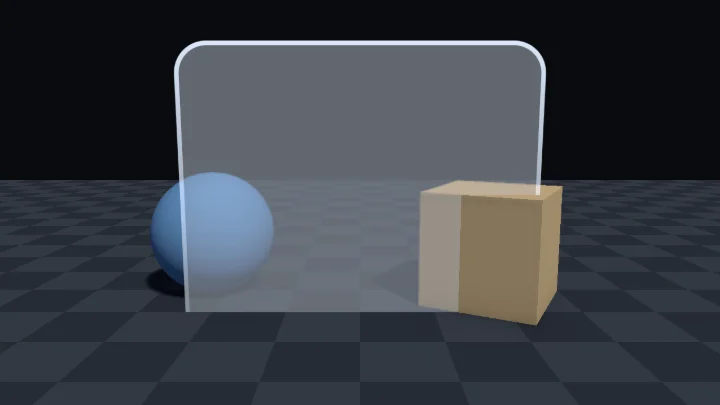
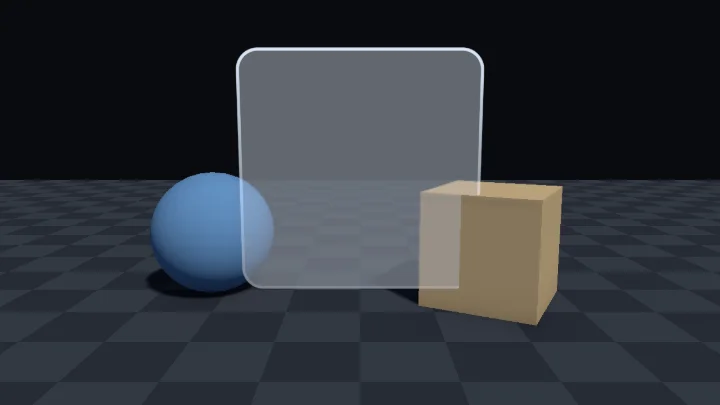
dispatch(ui-backdrop-blur-fix): 표본 수정: ui-backdrop-blur 리뷰 반영
Dispatch-Job: ui-backdrop-blur-fix
Dispatch-Profile: org
Dispatch-Model: claude-opus-5-5

Changed region(s): [[0.2444, 0.0889, 0.7639, 0.7704]]

diff --git a/web/src/specimens/ui-backdrop-blur/meta.ts b/web/src/specimens/ui-backdrop-blur/meta.ts
@@ -11,7 +11,7 @@ export const meta: SpecimenMeta = {
     'URP 의 Opaque Texture 를 화면 좌표(`screenUV`)로 읽어 패널 뒤 장면을 가져올 수 있다.',
     '황금각 나선으로 원판 위를 고르게 여러 번 읽어 흐린 배경을 만들고, 샘플 수가 비용과 화질을 함께 정한다는 것을 설명할 수 있다.',
     '둥근 사각형 거리장으로 패널 모양 알파와 테두리 빛을 만들 수 있다.',
-    '캔버스 렌더 모드(Overlay, Camera, World Space)에 따라 이 셰이더가 뒤를 비출 수 있는지 판단할 수 있다.',
+    '캔버스 렌더 모드(Overlay, Camera, World Space)마다 Opaque Texture 를 믿고 읽을 수 있는지 설명하고, 뒤를 비추는 패널에 Screen Space - Camera 캔버스를 고를 수 있다.',
   ],
   tags: ['씬 컬러(Opaque Texture)', '나선 샘플링 블러', '거리장(SDF)', 'UGUI', '캔버스 렌더 모드'],
   difficulty: 3,
@@ -38,51 +38,52 @@ export const meta: SpecimenMeta = {
     { key: '_RimColor', label: '테두리 빛 색', type: 'color', default: '#e0eeff' },
     { key: '_RimGlow', label: '테두리 빛 밝기', type: 'range', min: 0, max: 2, step: 0.05, default: 0.8, hint: '패널 가장자리 안쪽의 가는 빛. 위쪽이 아래쪽보다 밝다. 0 이면 테두리 없이 흐림만 남아 배경과 패널의 경계가 약해진다' },
     { key: '_CornerRadius', label: '모서리 둥글기', type: 'range', min: 0, max: 1, step: 0.01, default: 0.18, hint: '짧은 변 절반에 대한 비율. 0 이면 각진 사각형, 1 이면 짧은 쪽 양끝이 반원인 알약 모양이다' },
-    { key: '_Hide', label: '닫힘', type: 'range', min: 0, max: 1, step: 0.01, default: 0, hint: '0 이면 열린 패널, 1 이면 사라진 패널. 흐림 반경, 유리 색, 알파를 함께 줄인다. 패널을 열고 닫는 연출에서 C# 이나 애니메이션이 움직인다' },
+    { key: '_Hide', label: '닫힘', type: 'range', min: 0, max: 1, step: 0.01, default: 0, hint: '0 이면 열린 패널, 1 이면 사라진 패널. 흐림 반경, 유리 색, 알파를 함께 줄인다. Unity 에서는 `UiBackdropPanel` 의 Open, Close 가 움직인다' },
   ],
   presets: [
     { id: 'dialog', name: '글 읽는 대화창', look: '짙은 남색 유리가 배경을 크게 흐리고 어둡게 눌러 흰 글씨가 잘 읽힌다', values: { _BlurRadius: 0.06, _Quality: '2', _TintColor: '#141b2b', _TintAmount: 0.55, _RimGlow: 0.5, _CornerRadius: 0.12 } },
     { id: 'frosted', name: '서리 유리', look: '흰빛이 많이 섞인 밝은 유리. 뒤의 색만 뭉개져 비친다. 검은 글씨용', values: { _BlurRadius: 0.08, _Quality: '2', _TintColor: '#f2f6fb', _TintAmount: 0.45, _RimGlow: 1.2, _RimColor: '#ffffff' } },
-    { id: 'mobile-hud', name: '모바일 HUD', look: '반경을 줄이고 Low(8번)로 읽는 가벼운 패널. 알갱이가 조금 보이지만 비용이 4분의 1이다', values: { _BlurRadius: 0.025, _Quality: '0', _TintAmount: 0.3, _CornerRadius: 0.3 } },
+    { id: 'mobile-hud', name: '모바일 HUD', look: '반경을 줄이고 Low(8번)로 읽는 가벼운 패널. 알갱이가 조금 보이지만 읽는 횟수가 기본값 Medium 의 절반, High 의 4분의 1이다', values: { _BlurRadius: 0.025, _Quality: '0', _TintAmount: 0.3, _CornerRadius: 0.3 } },
     { id: 'pill', name: '알약 버튼', look: '모서리 둥글기 1. 가로로 긴 Image 에서는 양끝이 반원인 알약, 이 무대 같은 정사각형 Image 에서는 원이 된다. 테두리가 밝다', values: { _CornerRadius: 1, _RimGlow: 1.4, _BlurRadius: 0.05 } },
   ],
   events: [
     {
       id: 'reopen',
       label: '닫았다 열기',
-      // 빨리 닫고 잠깐 쉰 뒤 천천히 연다. 흐림 반경이 0 에서 커지며 뒤가 서서히 뭉개진다
+      // UiBackdropPanel.Reopen() 과 같다: 0.25초에 닫고 0.35초 쉰 뒤 0.8초에 연다 (inOutSine).
+      // 흐림 반경이 0 에서 커지며 뒤가 서서히 뭉개진다
       tracks: [{ key: '_Hide', frames: [[0, 0], [0.25, 1], [0.6, 1], [1.4, 0]], ease: 'inOutSine' }],
     },
   ],
   demo: { fire: [{ event: 'reopen', every: 4.5 }] },
   steps: [
-    { n: 1, label: '패널 모양', body: '둥근 사각형 거리장의 안쪽을 흰색으로 본다. 이 값이 패널의 알파다. 모서리 둥글기를 바꾸면 모서리만 바뀌고, 가장자리는 `fwidth` 로 1픽셀만 부드럽다. Image 의 가로세로 비를 uv 의 화면 미분으로 재서 가로로 긴 패널에서도 모서리가 원호를 유지한다. 이 무대에서는 패널 아래쪽이 바닥에 가려 아래 모서리가 보이지 않는다.' },
-    { n: 2, label: '흐리기 전 씬 색상', body: '패널 자리의 화면 좌표로 씬 색상을 한 번 읽은 모습이다. 상자와 공이 패널이 없는 것처럼 그대로 비친다. 패널은 자기 뒤를 직접 볼 수 없고, 카메라가 불투명 물체를 다 그린 직후 복사해 둔 화면(Opaque Texture)을 읽는다. 바깥 모서리는 패널 모양 밖이라 검다.' },
-    { n: 3, label: '흐린 씬 색상', body: '같은 자리 주변을 황금각 나선으로 여러 번 읽어 평균한 모습이다. 상자와 공의 윤곽이 뭉개진다. 샘플 수를 Low 로 내리면 흐림 속에 고운 알갱이가 생긴다. 나선을 픽셀마다 다르게 돌려 겹상을 알갱이로 바꾼 것이다. 흐림 반경을 키우면 더 뭉개지고 알갱이도 거칠어진다.' },
-    { n: 4, label: '테두리 빛', body: '가장자리 안쪽의 가는 띠만 본다. 패널 모양에서 거리장을 띠 폭만큼 안으로 옮긴 모양을 빼서 얻는다. 위쪽 변이 가장 밝고 옆 변은 아래로 내려갈수록 회색으로 어두워진다. 빛이 위에서 비치는 유리처럼 보이게 한 것이다. 이 빛을 3단계의 흐린 배경에 유리 색을 섞은 위에 더하면 최종 화면이 된다.' },
+    { n: 1, label: '패널 모양', body: '둥근 사각형 거리장의 안쪽을 흰색으로 본다. 이 값이 패널의 알파다. 모서리 둥글기를 바꾸면 모서리만 바뀌고, 가장자리는 `fwidth` 로 1픽셀만 부드럽다. Image 의 가로세로 비를 uv 의 화면 미분으로 재서 가로로 긴 패널에서도 모서리가 원호를 유지한다. 패널은 바닥에서 떠 있어 왼쪽 아래 모서리까지 보인다. 오른쪽 아래 모서리는 패널보다 카메라에 가까운 상자 앞면에 가려진다. Camera, World Space 캔버스의 UI 도 이처럼 깊이를 비교해 더 가까운 3D 물체에 가려진다.' },
+    { n: 2, label: '흐리기 전 씬 색상', body: '패널 자리의 화면 좌표로 씬 색상을 한 번 읽은 모습이다. 공과 바닥, 패널 뒤로 들어간 상자 윗부분이 패널이 없는 것처럼 그대로 비쳐 이어진다. 패널은 자기 뒤를 직접 볼 수 없고, 카메라가 불투명 물체를 다 그린 직후 복사해 둔 화면(Opaque Texture)을 읽는다. 바깥 모서리는 패널 모양 밖이라 검다.' },
+    { n: 3, label: '흐린 씬 색상', body: '같은 자리 주변을 황금각 나선으로 여러 번 읽어 평균한 모습이다. 공과 상자의 윤곽, 바닥 격자가 뭉개진다. 패널 앞에 있는 상자 앞면의 가장자리 둘레에도 상자 색이 번진다. Opaque Texture 에는 패널 앞의 물체도 들어 있어 흐림이 그 색까지 끌어오기 때문이다. 샘플 수를 Low 로 내리면 흐림 속에 고운 알갱이가 생긴다. 나선을 픽셀마다 다르게 돌려 겹상을 알갱이로 바꾼 것이다. 흐림 반경을 키우면 더 뭉개지고 알갱이도 거칠어진다.' },
+    { n: 4, label: '테두리 빛', body: '가장자리 안쪽의 가는 띠만 본다. 패널 모양에서 거리장을 띠 폭만큼 안으로 옮긴 모양을 빼서 얻는다. 위쪽 변이 가장 밝고, 옆 변은 아래로 내려갈수록 어두워져 아래쪽 변은 어두운 회색이다. 빛이 위에서 비치는 유리처럼 보이게 한 것이다. 이 빛을 3단계의 흐린 배경에 유리 색을 섞은 위에 더하면 최종 화면이 된다.' },
   ],
   offNote: '흐림 반경은 그대로 두고 상하좌우 네 곳만 읽어 평균했다. 흐려지는 대신 상자와 공이 네 겹으로 어긋나 겹쳐 보인다. 샘플을 아끼려고 반경만 키우거나 샘플 수를 크게 줄였을 때 생기는 모습이다. 반경을 키우면 샘플 수도 함께 늘리고, 샘플을 원판에 고르게 퍼뜨린 뒤 픽셀마다 돌려 남는 겹상을 알갱이로 바꾼다.',
   mistakes: [
-    { title: '패널이 뒤를 비추지 않고 회색이나 검은 판으로 보인다', body: '셋 중 하나다. (1) URP Asset 의 Opaque Texture 가 꺼져 있다. 품질 단계마다 URP Asset 이 다르면 모두 켜고, 카메라의 Opaque Texture 가 Off 면 Use Pipeline Settings 로 바꾼다. (2) 캔버스가 Screen Space - Overlay 다. Overlay 는 카메라가 다 그린 뒤 따로 그려져 Opaque Texture 를 읽을 수 없다. Screen Space - Camera 로 바꾸고 Render Camera 에 장면 카메라를 넣는다. (3) 2D Renderer 를 쓴다. Opaque Texture 가 없어 Camera Sorting Layer Texture 를 읽게 셰이더를 고쳐야 한다.' },
+    { title: '패널이 뒤를 비추지 않고 회색이나 검은 판으로 보이거나, 비친 색이 주변 화면과 다르다', body: '넷 중 하나다. (1) URP Asset 의 Opaque Texture 가 꺼져 있다. 품질 단계마다 URP Asset 이 다르면 모두 켜고, 카메라의 Opaque Texture 가 Off 면 Use Pipeline Settings 로 바꾼다. (2) 캔버스가 Screen Space - Overlay 다. Overlay 캔버스에서 Opaque Texture 가 읽히는지는 보장되지 않고 확인하지 않았다. 읽혀도 투명 물체와 후처리가 빠진 복사본이라 색이 주변과 다르다. (3) Canvas 의 Render Camera 가 UI 만 그리는 Overlay 카메라(카메라 스택)다. Overlay 카메라는 Opaque Texture 를 만들지 않는다. (2), (3) 은 Screen Space - Camera 로 바꾸고 Render Camera 에 장면을 그리는 Base 카메라를 넣는다. (4) 2D Renderer 를 쓴다. Opaque Texture 가 없어 Camera Sorting Layer Texture 를 읽게 셰이더를 고쳐야 한다.' },
     { title: '뒤에 있는 다른 UI 나 파티클이 흐림에 안 보이고 그 자리의 3D 장면이 비친다', body: 'Opaque Texture 는 불투명 물체를 그린 직후의 복사본이라 투명 물체, 파티클, 다른 UI 가 들어 있지 않다. 패널 뒤 UI 가 흐려 보여야 하면 그 UI 를 별도 카메라로 렌더 텍스처에 찍어 읽거나, 패널 뒤에 반투명 판을 깔아 가린다. 같은 이유로 흐린 패널 두 장을 겹치면 뒤 패널은 앞 패널의 흐림에 나오지 않는다.' },
-    { title: '흐림 속에 물체가 몇 겹으로 어긋나 비치거나 알갱이가 거칠다', body: '반경에 비해 샘플이 적다. 반경을 키울수록 같은 샘플 수가 넓은 원에 듬성듬성 흩어진다. 샘플 수를 올리거나 반경을 줄인다. URP Asset 의 Opaque Downsampling 을 4x Box 로 두면 복사본이 미리 뭉개져 같은 샘플 수로도 부드럽고 읽는 비용도 준다.' },
-    { title: '패널을 열면 프레임이 떨어진다 (특히 모바일)', body: '비용은 패널이 덮는 픽셀 수 × 샘플 수다. 화면 전체를 덮는 High(32번) 패널은 매 프레임 모든 픽셀이 32번 텍스처를 읽는다. 모바일은 Low 와 작은 반경, Opaque Downsampling 4x Box 를 쓰고, 큰 배경 패널 대신 필요한 영역만 흐린다. 메뉴가 열린 동안 장면이 멈춰 있다면 한 번 찍어 둔 흐린 이미지를 RawImage 로 보여 주는 편이 훨씬 싸다.' },
-    { title: '패널 하나를 닫았는데 다른 패널도 함께 사라진다', body: '`Image.material` 은 복사본을 만들지 않고 공유 머티리얼을 돌려준다. `_Hide` 를 패널마다 움직이려면 `new Material(image.material)` 로 복사본을 만들어 `image.material` 에 넣고 `OnDestroy` 에서 지운다. 페이드만 하면 되면 머티리얼은 그대로 두고 CanvasGroup 의 alpha 를 움직인다 (정점 색으로 들어와 셰이더가 곱한다).' },
+    { title: '흐림 속에 물체가 몇 겹으로 어긋나 비치거나 알갱이가 거칠다', body: '반경에 비해 샘플이 적다. 반경을 키울수록 같은 샘플 수가 넓은 원에 듬성듬성 흩어진다. 샘플 수를 올리거나 반경을 줄인다. URP Asset 의 Opaque Downsampling 을 4x Box 로 두면 복사본이 미리 뭉개져 같은 샘플 수로도 부드럽고 읽는 비용도 준다. 알갱이 무늬는 화면 픽셀에 고정되어 있어 패널을 움직이면 무늬는 제자리에 남고 패널만 그 위를 지나간다. 움직이는 패널에서 눈에 띄면 샘플 수를 올린다.' },
+    { title: '패널을 열면 프레임이 떨어진다 (특히 모바일)', body: '비용은 패널이 덮는 픽셀 수 × 샘플 수다. 화면 전체를 덮는 High(32번) 패널은 매 프레임 모든 픽셀이 32번 텍스처를 읽는다. 모바일은 Low 와 작은 반경, Opaque Downsampling 4x Box 를 쓰고, 큰 배경 패널 대신 필요한 영역만 흐린다. 닫힌 패널도 알파만 0 일 뿐 켜져 있으면 같은 비용을 쓴다 (`UiBackdropPanel` 은 다 닫히면 Image 를 끈다). 메뉴가 열린 동안 장면이 멈춰 있다면 한 번 찍어 둔 흐린 이미지를 RawImage 로 보여 주는 편이 훨씬 싸다.' },
+    { title: '패널 하나를 닫았는데 다른 패널도 함께 사라진다', body: '`Image.material` 은 복사본을 만들지 않고 공유 머티리얼을 돌려준다. 머티리얼 에셋의 `_Hide` 를 직접 바꾸면 같은 머티리얼을 쓰는 패널이 모두 닫힌다. `UiBackdropPanel` 은 처음 쓸 때 Image 마다 복사본을 만들어 `image.material` 에 넣고 `OnDestroy` 에서 지운다. 꺼진 채 시작한 메뉴에 `Awake` 전에 `Close()` 를 불러도 된다. Mask 안의 패널은 Unity 가 따로 쓰는 스텐실용 복사본(`materialForRendering`)에도 같은 값을 넣는다. 페이드만 하면 되면 머티리얼은 그대로 두고 CanvasGroup 의 alpha 를 움직인다 (정점 색으로 들어와 셰이더가 곱한다).' },
   ],
   unity: {
     setup: [
-      '`UiBackdropBlur.shader`, `core.hlsl` 을 `Assets/Shaders/ui-backdrop-blur/` 에 둔다.',
-      '사용 중인 URP Asset(품질 단계마다 다르면 모두)의 Rendering 에서 Opaque Texture 를 켠다. 모바일은 Opaque Downsampling 을 4x Box 로 둔다. 카메라의 Rendering > Opaque Texture 가 Off 면 Use Pipeline Settings 로 바꾼다.',
-      'Canvas 의 Render Mode 를 Screen Space - Camera 로 바꾸고 Render Camera 에 장면을 그리는 카메라를 넣는다 (또는 World Space). Screen Space - Overlay 는 Opaque Texture 를 읽을 수 없다. Plane Distance 는 장면의 3D 물체보다 카메라에 가깝게 둔다. 더 가까운 3D 물체는 패널을 가린다.',
-      '셰이더를 우클릭해 Create > Material 로 머티리얼을 만든다.',
-      'Canvas 아래 Create > UI > Image 로 패널을 만들고 Image 의 Material 칸에 머티리얼을 넣는다. 패널 모양은 셰이더가 계산하므로 Source Image 는 비우고 Image Type 은 Simple 로 둔다. Image 의 Color 알파나 CanvasGroup 의 alpha 로 패널 전체를 옅게 할 수 있다.',
-      '글(TextMeshPro 등)은 패널의 자식으로 두어 패널보다 나중에 그려지게 한다. 글이 잘 읽히지 않으면 유리 색 비율을 0.5 안팎으로 올리고 유리 색을 글과 반대 밝기로 둔다.',
-      '모바일 빌드는 머티리얼의 샘플 수를 Low 로, 흐림 반경을 0.03 아래로 둔다.',
+      '`UiBackdropBlur.shader`, `core.hlsl`, `UiBackdropPanel.cs` 를 `Assets/Shaders/ui-backdrop-blur/` 에 둔다.',
+      '사용 중인 URP Asset(품질 단계마다 다르면 모두)의 Rendering 에서 Opaque Texture 를 켠다. 카메라의 Rendering > Opaque Texture 가 Off 면 Use Pipeline Settings 로 바꾼다.',
+      'Canvas 의 Render Mode 를 Screen Space - Camera 로 바꾸고 Render Camera 에 장면을 그리는 Base 카메라를 넣는다 (World Space 도 된다). Screen Space - Overlay 에서 Opaque Texture 가 읽히는지는 보장되지 않고 확인하지 않았으며, UI 만 그리는 Overlay 카메라(카메라 스택)는 Opaque Texture 를 만들지 않는다. Plane Distance 는 장면의 3D 물체보다 카메라에 가깝게 둔다. 더 가까운 3D 물체는 패널을 가린다.',
+      '셰이더를 우클릭해 Create > Material 로 머티리얼을 만든다. Hierarchy 에서 GameObject > UI (Canvas) > Image 로 Canvas 아래에 패널을 만들고 Image 의 Material 칸에 머티리얼을 넣는다. 패널 모양은 셰이더가 계산하므로 Source Image 는 비우고 Image Type 은 Simple 로 둔다.',
+      '글(TextMeshPro 등)과 버튼은 패널의 자식 오브젝트 하나에 모아 패널보다 나중에 그려지게 하고, 그 자식에 CanvasGroup 을 붙인다. 글이 잘 읽히지 않으면 유리 색 비율을 0.5 안팎으로 올리고 유리 색을 글과 반대 밝기로 둔다.',
+      '패널에 `UiBackdropPanel` 을 붙이고 Content 칸에 위 자식의 CanvasGroup 을 넣는다. 메뉴를 열 때 `Open()`, 닫을 때 `Close()` 를 부른다. 탭을 바꿀 때처럼 빨리 닫고 잠깐 쉰 뒤 다시 열려면 `Reopen()` 을 부른다. 글도 함께 사라지고, 다 닫히면 Image 를 꺼 흐림 비용과 클릭 막힘이 없어진다. 패널마다 머티리얼 복사본을 쓰므로 머티리얼 에셋의 닫힘 값은 0 으로 둔다.',
+      '모바일 빌드는 머티리얼의 샘플 수를 Low 로, 흐림 반경을 0.03 아래로 두고, URP Asset 의 Opaque Downsampling 을 4x Box 로 둔다.',
     ],
     verify: 'Game 뷰에서 패널 뒤 3D 물체의 윤곽이 뭉개져 비치고, 흐림 반경을 0 으로 내리면 뒤가 또렷해지며, 카메라나 물체가 움직이면 흐린 모습이 같이 따라간다.',
     pitfalls: [
-      'Screen Space - Overlay 캔버스는 카메라가 장면을 다 그린 뒤에 따로 그려져 Opaque Texture 를 읽을 수 없다. 패널이 회색이나 검은 판, 또는 엉뚱한 화면으로 보인다. Screen Space - Camera 나 World Space 캔버스를 쓴다.',
-      'Opaque Texture 는 불투명 물체만 담는다. 다른 UI, 투명 물체, 파티클, 하늘보다 늦게 그려지는 것은 흐림에 들어가지 않고 그 자리의 불투명 장면이 비친다. 흐린 패널끼리 겹쳐도 뒤 패널은 보이지 않는다.',
+      'Screen Space - Camera 캔버스를 권한다. Screen Space - Overlay 캔버스에서 Opaque Texture 가 읽히는지는 보장되지 않고 확인하지 않았다. URP 17.3 은 Overlay UI 도 카메라 렌더 그래프 안에서 그려 읽힐 수 있지만, 읽혀도 투명 물체와 후처리가 빠진 복사본이라 패널 색이 주변 화면과 다르다. UI 만 그리는 Overlay 카메라(카메라 스택)는 Opaque Texture 를 만들지 않아 그 카메라를 Render Camera 로 쓰면 뒤가 비치지 않는다.',
+      'Opaque Texture 는 불투명 물체만 담는다. 다른 UI, 투명 물체, 파티클, 하늘보다 늦게 그려지는 것은 흐림에 들어가지 않고 그 자리의 불투명 장면이 비친다. 흐린 패널끼리 겹쳐도 뒤 패널은 보이지 않는다. 반대로 패널보다 카메라에 가까운 불투명 물체는 들어 있어, 그 물체가 패널을 가린 경계 둘레에 물체 색이 흐리게 번진다.',
       '2D Renderer 는 Opaque Texture 를 만들지 않는다. Renderer 2D Data 의 Camera Sorting Layer Texture 에서 Foremost Sorting Layer 를 정하고, 래퍼의 `sgSceneColor` 를 `_CameraSortingLayerTexture` 를 읽게 바꿔야 한다. 이 패스는 LightMode 태그가 없어 2D Renderer 에서도 SRPDefaultUnlit 으로 그려지지만, 바꾸지 않으면 뒤가 비치지 않는다.',
       '샘플 수가 곧 비용이다. 패널이 덮는 픽셀마다 Low 8번, Medium 16번, High 32번 텍스처를 읽는다. 모바일은 Low 와 작은 반경을 쓰고 Opaque Downsampling(4x Box)으로 읽는 양을 줄인다. 전체 화면을 덮는 배경 패널은 특히 비싸다.',
       'XR 에서는 권하지 않는다. 눈마다 다시 읽어 비용이 두 배이고, World Space UI 에서 화면 공간 흐림이 머리 움직임에 따라 어떻게 보여야 하는지 쓰임이 분명하지 않다. 래퍼의 스테레오 매크로는 남겨 두었지만 실기기에서 확인하지 않았다.',
@@ -90,9 +91,9 @@ export const meta: SpecimenMeta = {
     ],
   },
   prompt: {
-    goal: 'Screen Space - Camera 캔버스의 UGUI 패널이 뒤의 3D 장면을 흐리게 비추는 반투명 유리 배경이 되게 한다. 흐림 반경, 샘플 수, 유리 색, 테두리 빛, 모서리 둥글기를 머티리얼에서 조절한다.',
+    goal: 'Screen Space - Camera 캔버스의 UGUI 패널이 뒤의 3D 장면을 흐리게 비추는 반투명 유리 배경이 되게 한다. 흐림 반경, 샘플 수, 유리 색, 테두리 빛, 모서리 둥글기를 머티리얼에서 조절하고, 패널을 C# 으로 열고 닫는다.',
     adaptIdeas: [
-      '메뉴 패널을 열 때 0.3초 동안 흐림이 0 에서 서서히 커지고 닫을 때 줄어들게 하고 싶다. 패널마다 머티리얼 복사본을 만들고 `_Hide` 를 C# 코루틴에서 실제 시간(`Time.unscaledDeltaTime`)으로 움직여 일시정지 중에도 동작하게 해 줘.',
+      '메뉴 패널이 열릴 때 흐림이 커지는 동안 패널 크기도 0.96 에서 1 로 살짝 커지고, 글은 패널이 반쯤 열린 뒤에 나타나게 하고 싶다. `UiBackdropPanel` 의 열기 시간에 맞춰 Rect Transform 의 스케일과 글 CanvasGroup 의 alpha 를 함께 움직이고, 일시정지 중에도 동작하게 실제 시간으로 재 줘.',
       '2D Renderer 프로젝트에서 쓰고 싶다. Opaque Texture 대신 Camera Sorting Layer Texture 를 읽게 바꾸고 Renderer 2D Data 에서 켤 설정도 알려 줘.',
       'Source Image 의 알파를 패널 모양으로 써서 9-slice 프레임이나 말풍선 모양의 유리를 만들고 싶다.',
       '흐린 유리 위에 아주 옅은 노이즈 알갱이와 위에서 아래로 옅어지는 반사광을 얹어 더 유리처럼 보이게 하고 싶다.',

diff --git a/Assets/Shaders/ui-backdrop-blur/UiBackdropPanel.cs b/Assets/Shaders/ui-backdrop-blur/UiBackdropPanel.cs
@@ -1,0 +1,253 @@
+// UGUI Image 의 배경 블러 유리 머티리얼에 닫힘 값(_Hide)을 넘겨 패널을 열고 닫는다. Open, Close, Reopen 을 부른다.
+using System.Collections;
+using UnityEngine;
+using UnityEngine.UI;
+
+namespace ShaderGallery.Samples
+{
+    [RequireComponent(typeof(Image))]
+    public class UiBackdropPanel : MonoBehaviour
+    {
+        static readonly int Hide = Shader.PropertyToID("_Hide");
+
+        [Tooltip("켜면 열린 채, 끄면 닫힌 채 시작한다")]
+        [SerializeField] bool startOpen = true;
+        [Tooltip("다 열린 패널을 닫는 시간(초). 갤러리의 '닫았다 열기' 이벤트와 같은 0.25초")]
+        [SerializeField] float closeSeconds = 0.25f;
+        [Tooltip("다 닫힌 패널을 여는 시간(초). 흐림 반경이 0 에서 서서히 커진다. 갤러리 이벤트와 같은 0.8초")]
+        [SerializeField] float openSeconds = 0.8f;
+        [Tooltip("Reopen 에서 닫힌 채 쉬는 시간(초). 갤러리 이벤트와 같은 0.35초")]
+        [SerializeField] float reopenPause = 0.35f;
+        [Tooltip("일시정지(Time.timeScale = 0) 중에도 열고 닫히게 하려면 켠다. 메뉴는 대개 일시정지 중에 열린다")]
+        [SerializeField] bool unscaledTime = true;
+        [Tooltip("패널의 글과 버튼을 모은 자식 오브젝트의 CanvasGroup (선택). 넣으면 패널과 함께 사라지고, 반 넘게 닫히면 클릭을 받지 않는다.\n" +
+                 "패널 오브젝트 자체의 CanvasGroup 을 넣지 않는다 (유리의 알파가 두 번 곱해진다)")]
+        [SerializeField] CanvasGroup content;
+
+        Image image;
+        Material original;
+        Material material;
+        // 화면에 보이는 닫힘 값과 목표 값 (0 = 열림, 1 = 닫힘)
+        float shown;
+        float target;
+        // Open, Close, Reopen 이 한 번이라도 값을 넣었는지. Awake 가 시작 값으로 덮어쓰지 않게 한다
+        bool hasValue;
+        // 다 닫혀서 이 스크립트가 Image 를 껐는지. 지워질 때 다시 켜 둔다
+        bool imageHiddenByUs;
+        bool warnedNoHide;
+
+        /// <summary>열려 있거나 열리는 중이면 true. Reopen 중에는 다시 열릴 것이므로 true 다.</summary>
+        public bool IsOpen => target < 0.5f;
+
+        // 일시정지 중에도 UI 가 움직이게 하려면 실제 시간을 쓴다
+        float Now => unscaledTime ? Time.unscaledTime : Time.time;
+
+        void Awake()
+        {
+            if (!EnsureMaterial())
+            {
+                return;
+            }
+            // Awake 전에 Open, Close 가 이미 값을 넣었으면 (꺼진 채 시작한 메뉴) 그 값을 지킨다.
+            if (!hasValue)
+            {
+                shown = target = startOpen ? 0f : 1f;
+                hasValue = true;
+                Apply(shown);
+            }
+        }
+
+        // 복사본 머티리얼을 처음 쓸 때 만든다. Awake 는 오브젝트가 처음 켜질 때에야 불리므로,
+        // 꺼진 오브젝트에 Awake 전에 Open, Close 를 불러도 동작하려면 Awake 에서 만들면 안 된다.
+        bool EnsureMaterial()
+        {
+            if (material != null)
+            {
+                return true;
+            }
+            if (image == null)
+            {
+                image = GetComponent<Image>();
+            }
+            original = image.material;
+            if (original == null || !original.HasProperty(Hide))
+            {
+                // Material 칸이 비어 있으면 UI 기본 머티리얼이 들어와 _Hide 가 없다. 값을 넣어도 아무 일이 없으므로 멈춘다.
+                if (!warnedNoHide)
+                {
+                    Debug.LogWarning($"{name}: Image 의 Material 이 _Hide 속성을 가진 머티리얼이 아니다. ShaderGallery/UiBackdropBlur 머티리얼을 넣는다.", this);
+                    warnedNoHide = true;
+                }
+                enabled = false;
+                return false;
+            }
+            // Image.material 은 Renderer.material 과 달리 복사본을 만들지 않고 공유 에셋을 그대로 돌려준다.
+            // 그대로 고치면 같은 머티리얼을 쓰는 모든 패널이 함께 닫히므로 직접 복사본을 만들어 이 Image 에만 넣는다.
+            material = new Material(original) { name = original.name + " (Instance)" };
+            image.material = material;
+            return true;
+        }
+
+        /// <summary>패널을 연다. 흐림 반경, 유리 색, 알파가 0 에서 서서히 커진다. 꺼져 있을 때 부르면 바로 열린 상태가 된다.</summary>
+        public void Open()
+        {
+            MoveTo(0f, openSeconds);
+        }
+
+        /// <summary>패널을 닫는다. 다 닫히면 Image 를 꺼서 보이지 않는 패널이 흐림 비용을 쓰거나 클릭을 막지 않게 한다.</summary>
+        public void Close()
+        {
+            MoveTo(1f, closeSeconds);
+        }
+
+        /// <summary>빨리 닫고 잠깐 쉰 뒤 천천히 연다. 갤러리의 '닫았다 열기' 이벤트와 같다 (탭 전환, 내용 바꾸기 연출).</summary>
+        public void Reopen()
+        {
+            if (!EnsureMaterial())
+            {
+                return;
+            }
+            hasValue = true;
+            target = 0f;
+            StopAllCoroutines();
+            // 꺼진 오브젝트에서는 StartCoroutine 이 오류를 내므로 끝 상태(열림)로 바로 둔다.
+            if (!isActiveAndEnabled)
+            {
+                shown = 0f;
+                Apply(shown);
+                return;
+            }
+            StartCoroutine(ReopenRoutine());
+        }
+
+        void MoveTo(float to, float fullSeconds)
+        {
+            if (!EnsureMaterial())
+            {
+                return;
+            }
+            hasValue = true;
+            target = to;
+            StopAllCoroutines();
+            // 반쯤 닫힌 중에 다시 열면 남은 거리만큼만 시간을 쓴다
+            float seconds = Mathf.Max(fullSeconds, 0f) * Mathf.Abs(to - shown);
+            if (!isActiveAndEnabled || seconds <= 0f)
+            {
+                shown = to;
+                Apply(shown);
+                return;
+            }
+            StartCoroutine(Move(shown, to, seconds));
+        }
+
+        IEnumerator ReopenRoutine()
+        {
+            yield return StartCoroutine(Move(shown, 1f, Mathf.Max(closeSeconds, 0f) * (1f - shown)));
+            float pauseStart = Now;
+            while (Now - pauseStart < reopenPause)
+            {
+                yield return null;
+            }
+            yield return StartCoroutine(Move(1f, 0f, Mathf.Max(openSeconds, 0f)));
+        }
+
+        IEnumerator Move(float from, float to, float seconds)
+        {
+            float start = Now;
+            for (float t = 0f; t < 1f; t = seconds > 0f ? (Now - start) / seconds : 1f)
+            {
+                // inOutSine: 천천히 시작해 가운데서 빠르고 천천히 멈춘다. 갤러리 이벤트와 같은 곡선이다.
+                float eased = 0.5f - 0.5f * Mathf.Cos(Mathf.PI * t);
+                shown = Mathf.LerpUnclamped(from, to, eased);
+                Apply(shown);
+                yield return null;
+            }
+            shown = to;
+            Apply(shown);
+        }
+
+        void Apply(float value)
+        {
+            if (material == null)
+            {
+                return;
+            }
+            material.SetFloat(Hide, value);
+
+            if (content != null)
+            {
+                content.alpha = 1f - value;
+                bool usable = value < 0.5f;
+                content.interactable = usable;
+                content.blocksRaycasts = usable;
+            }
+
+            // 씬을 닫을 때는 Image 가 먼저 지워져 있을 수 있다.
+            if (image == null)
+            {
+                return;
+            }
+            // 다 닫힌 패널은 알파가 0 이어도 픽셀마다 흐림을 계산하고 Raycast Target 이면 클릭을 막는다. Image 를 끈다.
+            bool closed = value >= 0.999f;
+            if (closed && image.enabled)
+            {
+                image.enabled = false;
+                imageHiddenByUs = true;
+            }
+            else if (!closed && imageHiddenByUs)
+            {
+                image.enabled = true;
+                imageHiddenByUs = false;
+            }
+
+            // Mask 안에 있으면 UGUI 가 스텐실 값을 바꾼 머티리얼 복사본(materialForRendering)으로 그린다.
+            // 그 복사본은 만들어질 때 값을 한 번 베끼므로 같은 값을 함께 넣는다.
+            // Image 가 꺼져 있으면 건드리지 않는다. 꺼질 때 지운 스텐실 복사본이 materialForRendering 을 부르는 순간 다시 생겨
+            // 아무도 지우지 않는 머티리얼로 샌다. 다시 켜질 때 UGUI 가 위 material 에서 새로 베끼므로 값은 맞는다.
+            if (!image.isActiveAndEnabled)
+            {
+                return;
+            }
+            Material rendering = image.materialForRendering;
+            if (rendering != null && rendering != material)
+            {
+                rendering.SetFloat(Hide, value);
+            }
+        }
+
+        void OnDisable()
+        {
+            StopAllCoroutines();
+            // 움직이던 중에 꺼지면 중간 값에 멈추지 않게 목표 값으로 맞춘다.
+            if (material != null)
+            {
+                shown = target;
+                Apply(shown);
+            }
+        }
+
+        void OnDestroy()
+        {
+            // 한 번도 쓰지 않았으면 만든 복사본이 없다.
+            if (material == null)
+            {
+                return;
+            }
+            if (image != null)
+            {
+                // 컴포넌트만 지워져도 Image 가 지워진 머티리얼을 가리키지 않게 원래 머티리얼로 돌려놓는다.
+                if (image.material == material)
+                {
+                    image.material = original;
+                }
+                // 닫혀서 끈 Image 는 다시 켜 둔다 (원래 머티리얼은 열린 모습이다).
+                if (imageHiddenByUs)
+                {
+                    image.enabled = true;
+                }
+            }
+            // new Material 로 만든 복사본은 직접 지워야 한다.
+            Destroy(material);
+        }
+    }
+}
